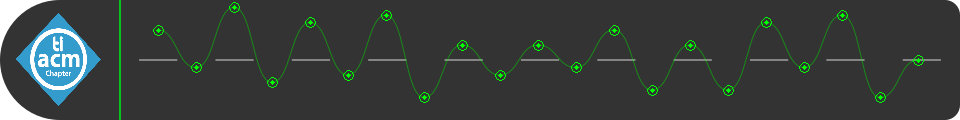
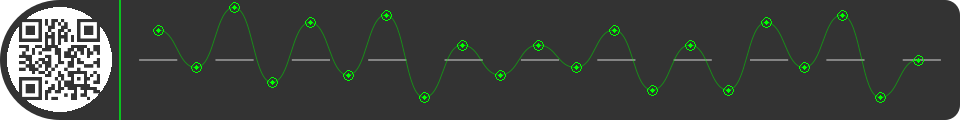
adding db

Changed region(s): [[0.0, 0.05, 0.125, 0.925]]

diff --git a/ClientApp/FlaskApp/app.py b/ClientApp/FlaskApp/app.py
@@ -8,13 +8,31 @@ from v2.plotter import plotDatapoints as plt
 import v2.AudioToID as AudioID
 import v2.IDToHash as Hash
 import v2.hashReducer as hr
+from flask_sqlalchemy import SQLAlchemy
+from sqlalchemy.orm.attributes import flag_modified
 
-UPLOAD_FOLDER = './ClientApp/FlaskApp/static/uploads'
+UPLOAD_FOLDER = './static/uploads'
 ALLOWED_EXTENSIONS = {'wav', 'png'}
 
 app = Flask(__name__)
 app.secret_key="12345678"
 app.config['UPLOAD_FOLDER'] = UPLOAD_FOLDER
+app.config['SQLALCHEMY_TRACK_MODIFICATIONS']=False
+app.config['SQLALCHEMY_DATABASE_URI']='sqlite:///db.sqlite3'
+
+db=SQLAlchemy(app)
+
+class Label(db.Model):
+    ID=db.Column('ID',db.Integer,primary_key=True, autoincrement=True)
+    AID=db.Column('AID',db.Text)
+    SubSignature=db.Column('SubSignature',db.Text)
+    label_loc=db.Column('label_loc',db.Text)
+    def _init_(self,ID,AID,SubSignature,label_loc):
+        self.ID=ID
+        self.AID=AID
+        self.SubSignature=SubSignature
+        self.label_loc=label_loc
+
 
 def allowed_file(filename):
     return '.' in filename and \
@@ -50,7 +68,7 @@ def predict():
             filename = secure_filename(logo.filename)
             logo.save(os.path.join(app.config['UPLOAD_FOLDER'], filename))
             loc2=os.path.join(app.config['UPLOAD_FOLDER'], filename)
-
+       
         aid =  AudioID.generateAudioID(loc1)
         print("AudioID : " + str(aid))
         sign = Hash.generateHash(aid)
@@ -58,13 +76,20 @@ def predict():
         v2Sign = hr.hashReducer(sign, 21)
         print("v2 AudioLabel Signature : " + v2Sign)
         locsave=f"./static/output/{v2Sign}.png"
-        print(f'Line 61 {locsave}')
-        Labelgen(loc2, 120,locsave)
-        print(f'Line 63 {locsave}')
-        plt(locsave, locsave, v2Sign)
-        print(f'Line 65 {locsave}')
         print(loc1,loc2)
-    return render_template('result.html',aid=aid,sign=v2Sign,locsave=locsave)
+        Labelgen(loc2, 120,locsave)
+
+        plt(locsave, locsave, v2Sign)
+        label_temp=Label(AID=aid,SubSignature=v2Sign,label_loc=locsave)
+        print(label_temp)
+        db.session.add(label_temp)
+        db.session.commit()
+
+        lb=db.session.query(Label).filter_by(AID=aid).first()
+        if lb == None:
+            return render_template('error.html',pos='not found aid')
+        print(loc1,loc2)
+    return render_template('result.html',aid=lb.AID,sign=lb.SubSignature,locsave=lb.label_loc)
 
 if __name__ == "__main__":
     app.run(debug=True)

diff --git a/ClientApp/FlaskApp/v2/bindLogo.py b/ClientApp/FlaskApp/v2/bindLogo.py
@@ -26,11 +26,11 @@ def bindCompanyLogo(logoDir, boxheight, saveDst, WHratio=8):
         (None)
     """
     currdir = os.getcwd()
-    tempDir = os.path.join(currdir, 'ClientApp', 'FlaskApp', 'v2', 'template', 'v2_base.png') #"./template/v2_base.png"
+    tempDir = os.path.join(currdir, 'v2', 'template', 'v2_base.png') #"./template/v2_base.png"
     temp = cv.imread(tempDir, cv.IMREAD_UNCHANGED)
     print('Line 32')
-    logoDir = os.path.join( os.getcwd(),'ClientApp', 'FlaskApp', 'static', 'uploads', os.path.basename(logoDir))
-    saveDst = os.path.join( os.getcwd(),'ClientApp', 'FlaskApp', 'static', 'output', os.path.basename(saveDst))
+    logoDir = os.path.join( os.getcwd(), 'static', 'uploads', os.path.basename(logoDir))
+    saveDst = os.path.join( os.getcwd(), 'static', 'output', os.path.basename(saveDst))
     print(f'{tempDir, logoDir}')
     logo = cv.imread(logoDir, cv.IMREAD_UNCHANGED)
 

diff --git a/ClientApp/FlaskApp/v2/plotter.py b/ClientApp/FlaskApp/v2/plotter.py
@@ -29,8 +29,8 @@ def plotDatapoints(stage2label_path, label_dst, sub_signature):
     #len = 21 and radix = 8
     #7=boxHeight/2 - boxHeight/16
     #0,0 is intersection of reference line and dividing line.
-    stage2label_path = os.path.join(os.getcwd(), 'ClientApp', 'FlaskApp', 'static', 'output', os.path.basename(stage2label_path))
-    label_dst = os.path.join(os.getcwd(), 'ClientApp', 'FlaskApp', 'static', 'output', os.path.basename(label_dst))
+    stage2label_path = os.path.join(os.getcwd(), 'static', 'output', os.path.basename(stage2label_path))
+    label_dst = os.path.join(os.getcwd(), 'static', 'output', os.path.basename(label_dst))
     print(f'Plotter\n{stage2label_path}, {label_dst}')
     label = cv.imread(stage2label_path, cv.IMREAD_UNCHANGED)
 
